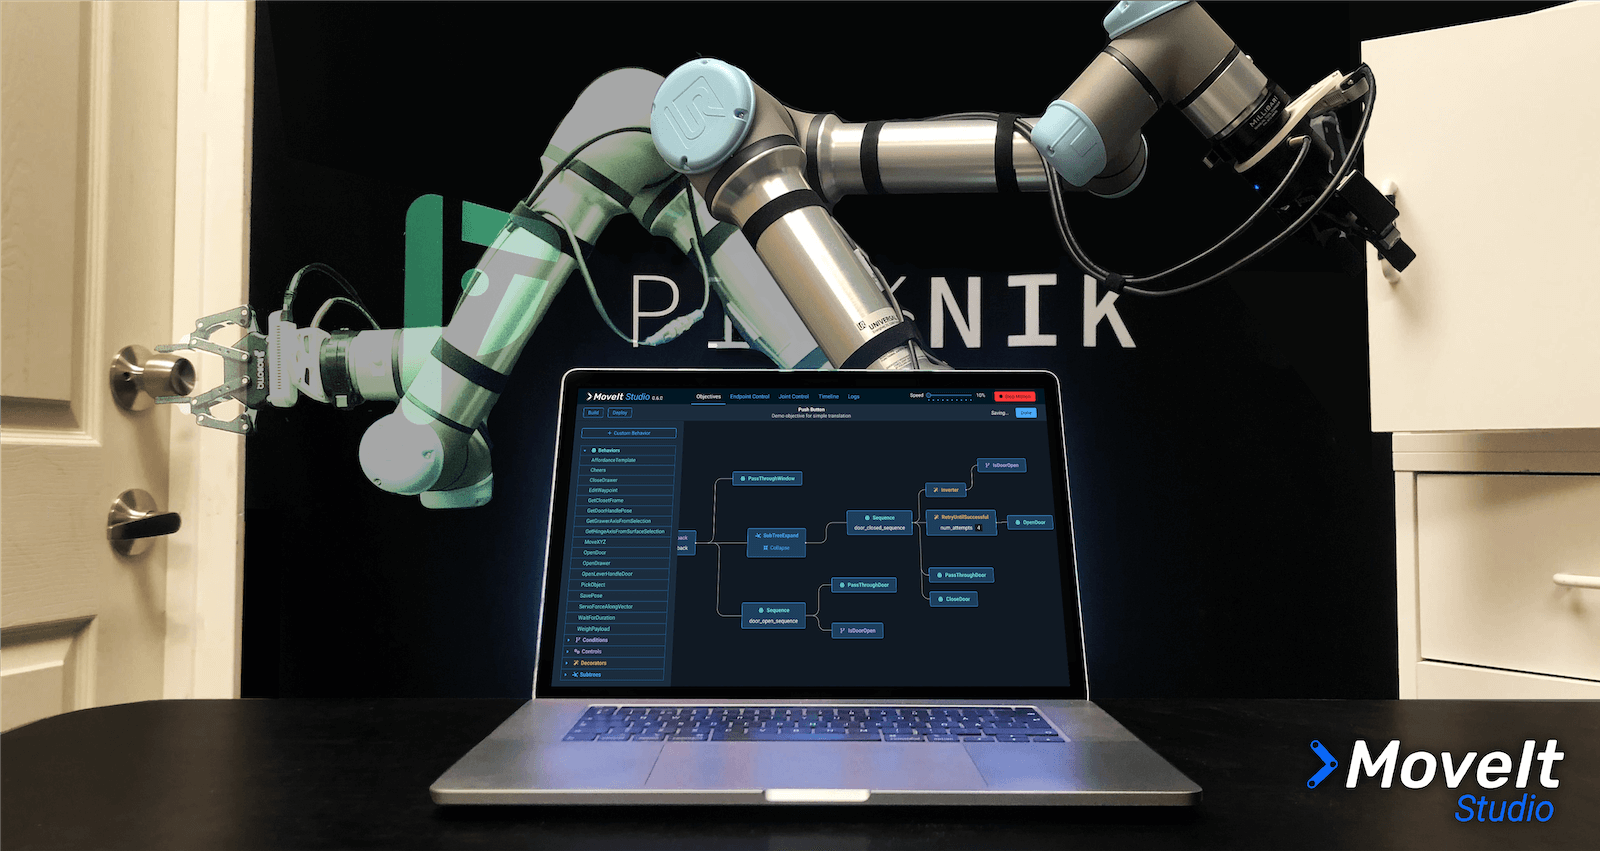
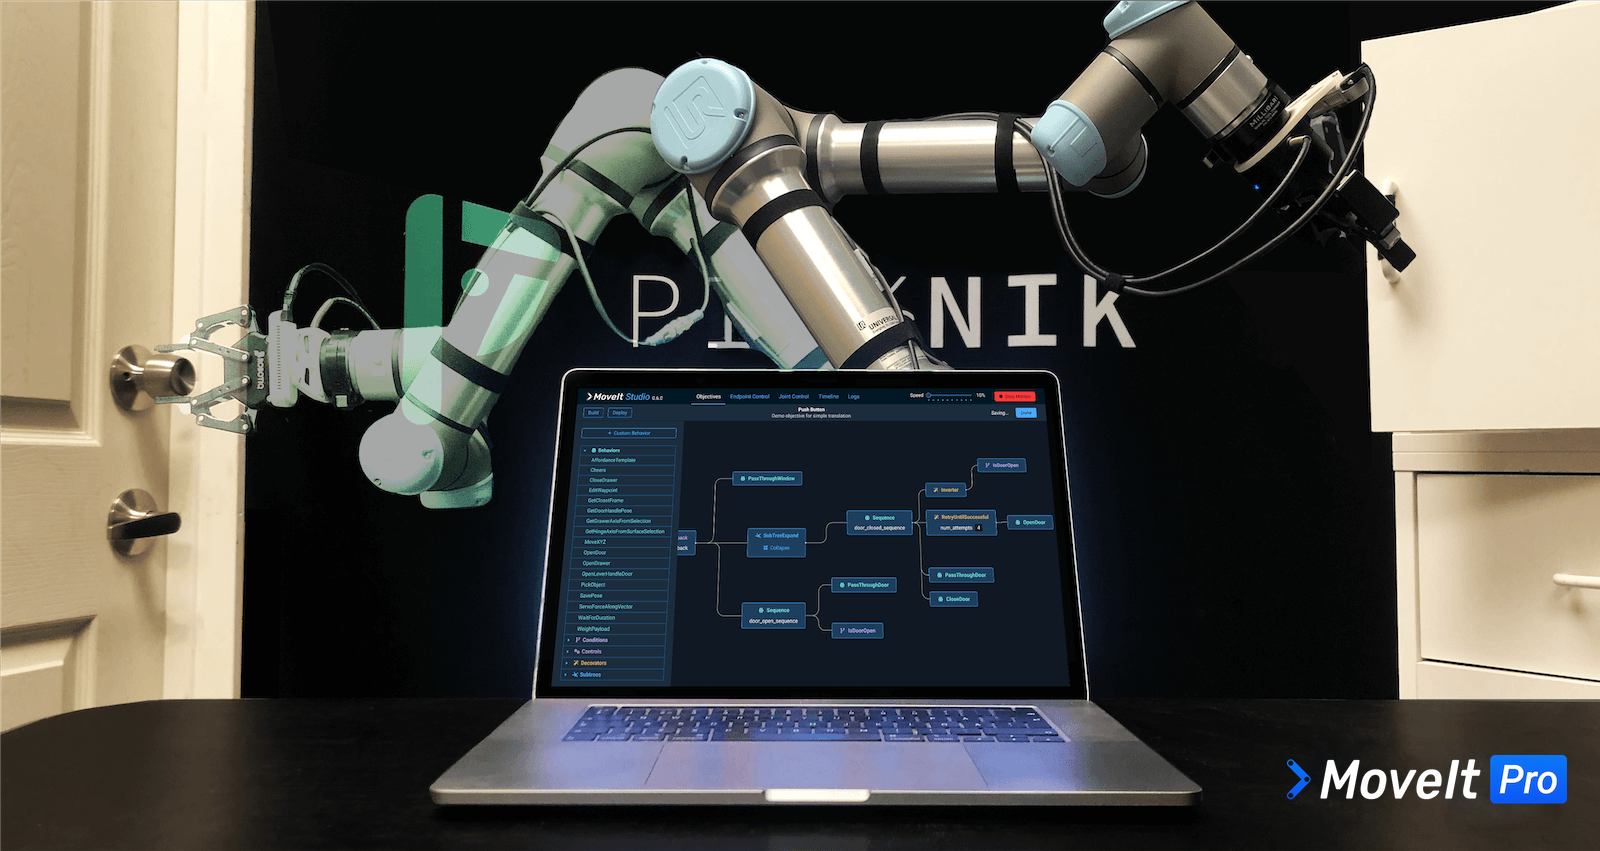
Replace Studio branding with Pro (#833)
---------

Changed region(s): [[0.8125, 0.8555, 1.0, 0.9777]]

diff --git a/_includes/announcement-banner.html b/_includes/announcement-banner.html
@@ -1,5 +1,8 @@
 <div class="moveit_announcement_banner">
-  <a href="https://picknik.ai/studio/">
-    <img src="/assets/images/MoveIt_Announcement_Banner.png" alt="MoveIt announcement banner" />
+  <a href="https://picknik.ai/pro/">
+    <img
+      src="/assets/images/MoveIt_Announcement_Banner.png"
+      alt="MoveIt announcement banner"
+    />
   </a>
 </div>

diff --git a/_includes/footer.html b/_includes/footer.html
@@ -13,7 +13,7 @@
         </p>
         <p>
           Check out our
-          <a href="https://picknik.ai/studio/" target="_blank"
+          <a href="https://picknik.ai/pro/" target="_blank"
             >MoveIt Developer Platform</a
           >
         </p>

diff --git a/_posts/2019-04-16-realtime-robotics.md b/_posts/2019-04-16-realtime-robotics.md
@@ -19,4 +19,4 @@ RapidPlan enables machines to navigate dynamic environments smoothly and quickly
 
 To allow seamless integration with existing robot setups, [PickNik Robotics](https://picknik.ai/) implemented a _RapidPlan_ motion planning plugin for MoveIt. The plugin should offer the full planning and collision checking capabilities via the common motion planning interface. The main challenge was the task of joining the two different methodologies. For instance: the plugin supports converting the collision objects in the planning scene to an occupancy voxel grid that can be processed by _RapidPlan_. Conversions of these types naturally come with a computational overhead that can reduce the planning rate. Other steps like converting motion planning requests, goal constraints, and processing the solution path also play into this. When using point clouds, the plugin can produce solutions with a rate of up to 700 hz which is more than appropriate for most real-time planning applications.
 
-The collaboration with [Realtime Robotics](https://rtr.ai/) has shown that MoveIt is adaptable to new planning methodologies. Reliable real-time planning and collision checking are a long expected key features required by modern robot applications and also a driving factor for the development of [ROS 2.0](https://index.ros.org/doc/ros2/). The project has set out the importance of online-planning capabilities in current MoveIt versions and the just started implementation of [MoveIt2](https://moveit.ros.org/moveit!/ros/2019/03/01/announcing-the-moveit-2-port.html).
+The collaboration with [Realtime Robotics](https://rtr.ai/) has shown that MoveIt is adaptable to new planning methodologies. Reliable real-time planning and collision checking are a long expected key features required by modern robot applications and also a driving factor for the development of [ROS 2.0](https://docs.ros.org/en/iron/The-ROS2-Project.html). The project has set out the importance of online-planning capabilities in current MoveIt versions and the just started implementation of [MoveIt2](https://moveit.ros.org/moveit!/ros/2019/03/01/announcing-the-moveit-2-port.html).
